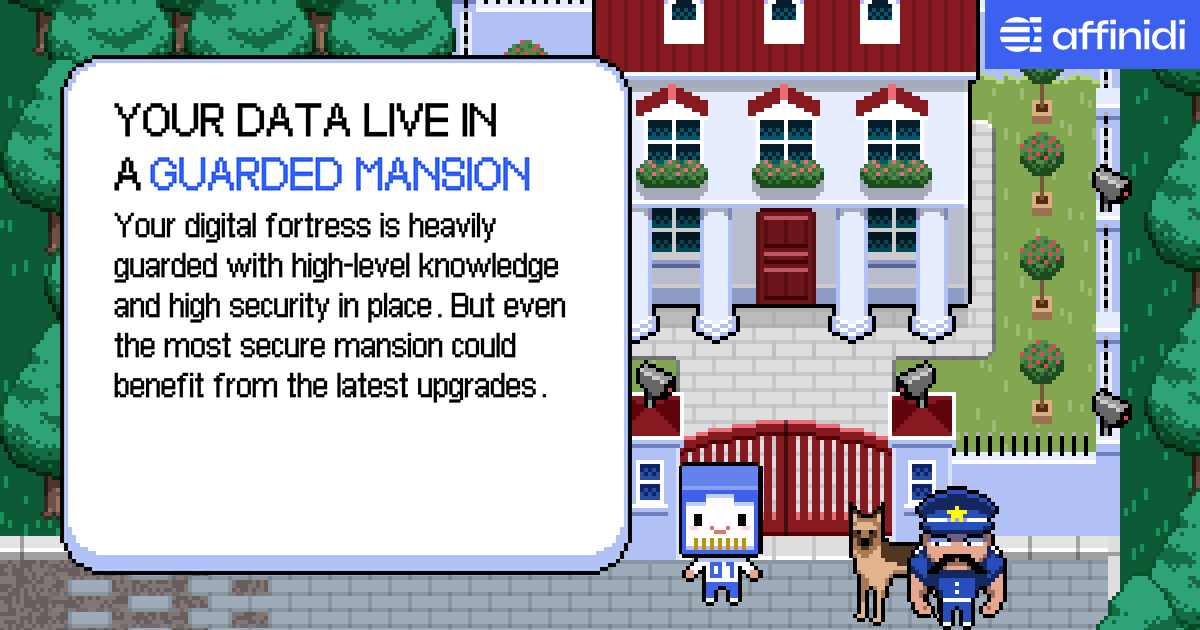
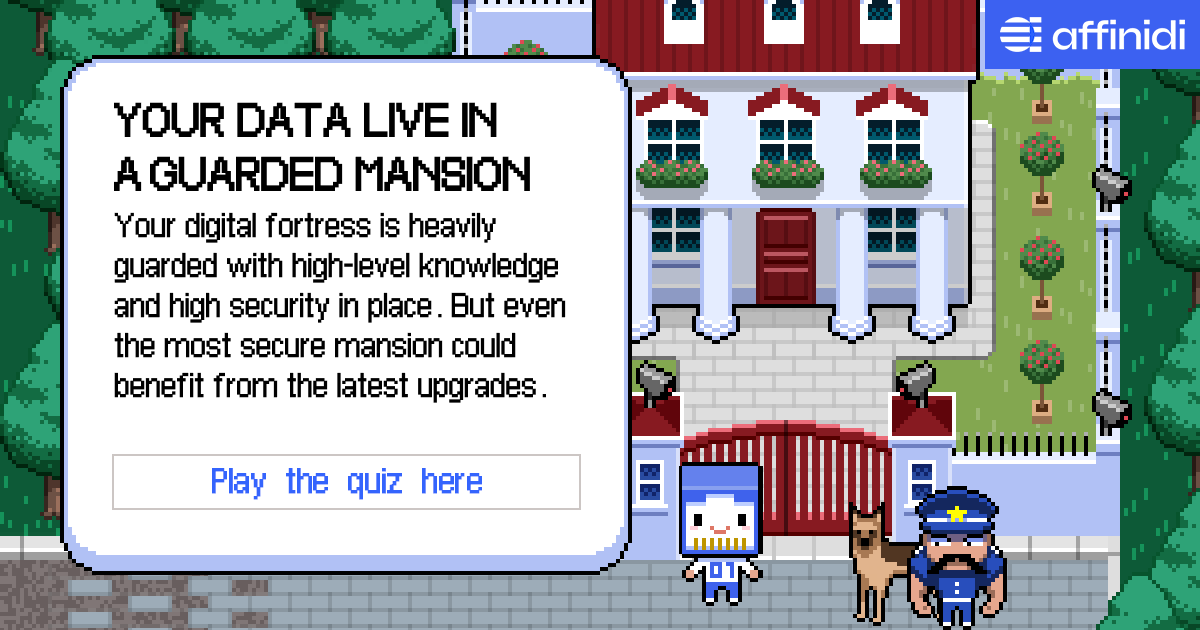
feat: og images updated

Changed region(s): [[0.0925, 0.6937, 0.4933, 0.8143], [0.0925, 0.2413, 0.4625, 0.3016], [0.0925, 0.1508, 0.4317, 0.2111]]

diff --git a/src/components/Scene/Scene-Result.vue b/src/components/Scene/Scene-Result.vue
@@ -1,12 +1,13 @@
 <script setup lang="ts">
-import { ref, reactive, onMounted, watch, computed } from 'vue'
+import { ref, reactive, onMounted, computed } from 'vue'
 import { External, onTick } from 'vue3-pixi'
-import { useFocus, useTimeoutFn } from '@vueuse/core'
-
-import { textureOptions } from '@/components/AppSettings.vue'
-import { useGameStore } from '@/stores/game'
+import { useFocus } from '@vueuse/core'
 import { storeToRefs } from 'pinia'
+
+import { useGameStore } from '@/stores/game'
 import { useDataStore } from '@/stores/data'
+import { textureOptions } from '@/components/AppSettings.vue'
+import Wolf from '@/components/Animation/Wolf.vue'
 
 const props = defineProps<{
   x: number
@@ -59,6 +60,8 @@ function onShare(type: 'facebook' | 'instagram' | 'x', event?: string) {
   const shareURL = 'https://affinidi-game-poc.onrender.com' + `/html/${props.place}-${characterSkin.value}.html`
   let finalShare = ''
 
+  // `https://twitter.com/intent/tweet?url=${pageUrl}&text=${text}&hashtags=${hashtags}
+
   switch (type) {
     case 'facebook':
       finalShare = 'https://www.facebook.com/sharer/sharer.php?u=' + encodeURIComponent(shareURL)
@@ -67,7 +70,7 @@ function onShare(type: 'facebook' | 'instagram' | 'x', event?: string) {
       finalShare = 'https://www.instagram.com/sharer/sharer.php?u=' + encodeURIComponent(shareURL)
       break
     case 'x':
-      finalShare = 'https://www.x.com/sharer/sharer.php?u=' + encodeURIComponent(shareURL)
+      finalShare = `https://www.twitter.com/intent/tweet?url=${encodeURIComponent(shareURL)}`
       break
   }
 
@@ -109,24 +112,39 @@ function onSubmit(value: string) {
   // DATA-COLLECT
   email.value = value
   dataStore.setEmail(value)
-  gameStore.playSFXSound('dialogBox')
+  gameStore.playSFXSound('buttonPress')
 
   setTimeout(() => {
+    gameStore.playSFXSound('dialogBox')
     secondScreen.value = true
+    wolf.alpha = 1
     emit('update')
   }, 300)
 }
+
 const frames = ['resultButton1', 'resultButton2']
 const inputRef = ref<any>()
 const { focused } = useFocus(inputRef)
+
+const wolf = reactive({ x: 280, y: 190, scale: 1, alpha: 0 })
 </script>
 
 <template>
   <Container v-if="!rotationStop" :x="modal.state.x" :y="modal.state.y" :scale="modal.state.scale">
+    <Wolf :x="wolf.x" :y="wolf.y" :scale="wolf.scale" :alpha="wolf.alpha" :flip="false" />
     <Sprite :texture="modal.image" :texture-options="textureOptions" :anchor="0.5" :scale="0.5" />
     <Container v-if="!secondScreen" :x="emailPlaceholder.x" :y="emailPlaceholder.y" :scale="emailPlaceholder.scale">
-      <Sprite ref="emailPlaceholderRef" :texture="focused || inputEmail?.length ? 'PlaceholderEmail2' : 'PlaceholderEmail1'" :texture-options="textureOptions" :anchor="0.5" :x="0" :y="0" :scale="1" />
-      <Sprite :texture="frames[Number(!!email?.length)]" :texture-options="textureOptions" :anchor="0.5" :x="450" :y="0" :scale="2.25" cursor="pointer" @pointerdown="onSubmit(inputEmail!)" />
+      <Sprite ref="emailPlaceholderRef" :texture="inputEmail?.length ? 'PlaceholderEmail2' : 'PlaceholderEmail1'" :texture-options="textureOptions" :anchor="0.5" :x="0" :y="0" :scale="1" />
+      <Sprite
+        v-if="!!inputEmail?.length"
+        :texture="frames[Number(!!email?.length)]"
+        :texture-options="textureOptions"
+        :anchor="0.5"
+        :x="450"
+        :y="0"
+        :scale="2.25"
+        cursor="pointer"
+        @pointerdown="onSubmit(inputEmail!)" />
       <External class="fixed z-10" :style="{ left: emailInputBox.x + 'px', top: emailInputBox.y + 'px' }">
         <input
           ref="inputRef"
@@ -153,9 +171,9 @@ const { focused } = useFocus(inputRef)
     <!-- <External>
       <div class="fixed bottom-0 left-16 z-50 flex w-fit items-center gap-8">
         <div class="flex flex-col gap-2">
-          <input v-model="emailPlaceholder.x" type="number" min="-10000" max="10000" step="10" />
-          <input v-model="emailPlaceholder.y" type="number" min="-10000" max="10000" step="10" />
-          <input v-model="emailPlaceholder.scale" type="number" min="0" max="10" step="0.01" />
+          <input v-model="wolf.x" type="number" min="-10000" max="10000" step="10" />
+          <input v-model="wolf.y" type="number" min="-10000" max="10000" step="10" />
+          <input v-model="wolf.scale" type="number" min="0" max="10" step="0.01" />
         </div>
       </div>
     </External> -->

diff --git a/public/html/strawhut-violate.html b/public/html/strawhut-violate.html
@@ -8,7 +8,7 @@
     <!-- Open Graph Meta Tags -->
     <meta property="og:title" content="Affindi Dataville">
     <meta property="og:description"
-        content="Welcome to Affindi Dataville, your hub for data-driven insights and solutions. Explore our innovative tools and services.">
+        content="Imagine living in a straw hut with me &#x1F6D6 Or a big mansion! Play now to see where you live in Dataville.">
     <meta property="og:image" content="/images/strawhut-violate.png">
     <meta property="og:url" content="https://affinidi-game-poc.onrender.com">
     <meta property="og:type" content="website">
@@ -16,7 +16,7 @@
     <meta name="twitter:card" content="summary_large_image">
     <meta name="twitter:title" content="Affindi Dataville">
     <meta name="twitter:description"
-        content="Welcome to Affindi Dataville, your hub for data-driven insights and solutions. Explore our innovative tools and services.">
+        content="Imagine living in a straw hut with me &#x1F6D6 Or a big mansion! Play now to see where you live in Dataville.">
     <meta name="twitter:image" content="/images/strawhut-violate.png">
     <meta name="twitter:url" content="https://affinidi-game-poc.onrender.com">
     <script>

diff --git a/public/html/strawhut-black.html b/public/html/strawhut-black.html
@@ -8,7 +8,7 @@
     <!-- Open Graph Meta Tags -->
     <meta property="og:title" content="Affindi Dataville">
     <meta property="og:description"
-        content="Welcome to Affindi Dataville, your hub for data-driven insights and solutions. Explore our innovative tools and services.">
+        content="Imagine living in a straw hut with me &#x1F6D6 Or a big mansion! Play now to see where you live in Dataville.">
     <meta property="og:image" content="/images/strawhut-black.png">
     <meta property="og:url" content="https://affinidi-game-poc.onrender.com">
     <meta property="og:type" content="website">
@@ -16,7 +16,7 @@
     <meta name="twitter:card" content="summary_large_image">
     <meta name="twitter:title" content="Affindi Dataville">
     <meta name="twitter:description"
-        content="Welcome to Affindi Dataville, your hub for data-driven insights and solutions. Explore our innovative tools and services.">
+        content="Imagine living in a straw hut with me &#x1F6D6 Or a big mansion! Play now to see where you live in Dataville.">
     <meta name="twitter:image" content="/images/strawhut-black.png">
     <meta name="twitter:url" content="https://affinidi-game-poc.onrender.com">
     <script>

diff --git a/public/html/strawhut-blue.html b/public/html/strawhut-blue.html
@@ -8,7 +8,7 @@
     <!-- Open Graph Meta Tags -->
     <meta property="og:title" content="Affindi Dataville">
     <meta property="og:description"
-        content="Welcome to Affindi Dataville, your hub for data-driven insights and solutions. Explore our innovative tools and services.">
+        content="Imagine living in a straw hut with me &#x1F6D6 Or a big mansion! Play now to see where you live in Dataville.">
     <meta property="og:image" content="/images/strawhut-blue.png">
     <meta property="og:url" content="https://affinidi-game-poc.onrender.com">
     <meta property="og:type" content="website">
@@ -16,7 +16,7 @@
     <meta name="twitter:card" content="summary_large_image">
     <meta name="twitter:title" content="Affindi Dataville">
     <meta name="twitter:description"
-        content="Welcome to Affindi Dataville, your hub for data-driven insights and solutions. Explore our innovative tools and services.">
+        content="Imagine living in a straw hut with me &#x1F6D6 Or a big mansion! Play now to see where you live in Dataville.">
     <meta name="twitter:image" content="/images/strawhut-blue.png">
     <meta name="twitter:url" content="https://affinidi-game-poc.onrender.com">
     <script>

diff --git a/public/html/strawhut-red.html b/public/html/strawhut-red.html
@@ -8,7 +8,7 @@
     <!-- Open Graph Meta Tags -->
     <meta property="og:title" content="Affindi Dataville">
     <meta property="og:description"
-        content="Welcome to Affindi Dataville, your hub for data-driven insights and solutions. Explore our innovative tools and services.">
+        content="Imagine living in a straw hut with me &#x1F6D6 Or a big mansion! Play now to see where you live in Dataville.">
     <meta property="og:image" content="/images/strawhut-red.png">
     <meta property="og:url" content="https://affinidi-game-poc.onrender.com">
     <meta property="og:type" content="website">
@@ -16,7 +16,7 @@
     <meta name="twitter:card" content="summary_large_image">
     <meta name="twitter:title" content="Affindi Dataville">
     <meta name="twitter:description"
-        content="Welcome to Affindi Dataville, your hub for data-driven insights and solutions. Explore our innovative tools and services.">
+        content="Imagine living in a straw hut with me &#x1F6D6 Or a big mansion! Play now to see where you live in Dataville.">
     <meta name="twitter:image" content="/images/strawhut-red.png">
     <meta name="twitter:url" content="https://affinidi-game-poc.onrender.com">
     <script>

diff --git a/public/html/loghouse-violate.html b/public/html/loghouse-violate.html
@@ -8,7 +8,7 @@
     <!-- Open Graph Meta Tags -->
     <meta property="og:title" content="Affindi Dataville">
     <meta property="og:description"
-        content="Welcome to Affindi Dataville, your hub for data-driven insights and solutions. Explore our innovative tools and services.">
+        content="Imagine living in a log house with me Or a big mansion! Play now to see where you live in Dataville.">
     <meta property="og:image" content="/images/loghouse-violate.png">
     <meta property="og:url" content="https://affinidi-game-poc.onrender.com">
     <meta property="og:type" content="website">
@@ -16,7 +16,7 @@
     <meta name="twitter:card" content="summary_large_image">
     <meta name="twitter:title" content="Affindi Dataville">
     <meta name="twitter:description"
-        content="Welcome to Affindi Dataville, your hub for data-driven insights and solutions. Explore our innovative tools and services.">
+        content="Imagine living in a log house with me Or a big mansion! Play now to see where you live in Dataville.">
     <meta name="twitter:image" content="/images/loghouse-violate.png">
     <meta name="twitter:url" content="https://affinidi-game-poc.onrender.com">
     <script>

diff --git a/public/html/townhouse-violate.html b/public/html/townhouse-violate.html
@@ -8,7 +8,7 @@
     <!-- Open Graph Meta Tags -->
     <meta property="og:title" content="Affindi Dataville">
     <meta property="og:description"
-        content="Welcome to Affindi Dataville, your hub for data-driven insights and solutions. Explore our innovative tools and services.">
+        content="Imagine living in a townhouse with me Or a log house! Play now to see where you live in Dataville.">
     <meta property="og:image" content="/images/townhouse-violate.png">
     <meta property="og:url" content="https://affinidi-game-poc.onrender.com">
     <meta property="og:type" content="website">
@@ -16,7 +16,7 @@
     <meta name="twitter:card" content="summary_large_image">
     <meta name="twitter:title" content="Affindi Dataville">
     <meta name="twitter:description"
-        content="Welcome to Affindi Dataville, your hub for data-driven insights and solutions. Explore our innovative tools and services.">
+        content="Imagine living in a townhouse with me Or a log house! Play now to see where you live in Dataville.">
     <meta name="twitter:image" content="/images/townhouse-violate.png">
     <meta name="twitter:url" content="https://affinidi-game-poc.onrender.com">
     <script>

diff --git a/public/html/loghouse-black.html b/public/html/loghouse-black.html
@@ -8,7 +8,7 @@
     <!-- Open Graph Meta Tags -->
     <meta property="og:title" content="Affindi Dataville">
     <meta property="og:description"
-        content="Welcome to Affindi Dataville, your hub for data-driven insights and solutions. Explore our innovative tools and services.">
+        content="Imagine living in a log house with me Or a big mansion! Play now to see where you live in Dataville.">
     <meta property="og:image" content="/images/loghouse-black.png">
     <meta property="og:url" content="https://affinidi-game-poc.onrender.com">
     <meta property="og:type" content="website">
@@ -16,7 +16,7 @@
     <meta name="twitter:card" content="summary_large_image">
     <meta name="twitter:title" content="Affindi Dataville">
     <meta name="twitter:description"
-        content="Welcome to Affindi Dataville, your hub for data-driven insights and solutions. Explore our innovative tools and services.">
+        content="Imagine living in a log house with me Or a big mansion! Play now to see where you live in Dataville.">
     <meta name="twitter:image" content="/images/loghouse-black.png">
     <meta name="twitter:url" content="https://affinidi-game-poc.onrender.com">
     <script>

diff --git a/public/html/loghouse-blue.html b/public/html/loghouse-blue.html
@@ -8,7 +8,7 @@
     <!-- Open Graph Meta Tags -->
     <meta property="og:title" content="Affindi Dataville">
     <meta property="og:description"
-        content="Welcome to Affindi Dataville, your hub for data-driven insights and solutions. Explore our innovative tools and services.">
+        content="Imagine living in a log house with me Or a big mansion! Play now to see where you live in Dataville.">
     <meta property="og:image" content="/images/loghouse-blue.png">
     <meta property="og:url" content="https://affinidi-game-poc.onrender.com">
     <meta property="og:type" content="website">
@@ -16,7 +16,7 @@
     <meta name="twitter:card" content="summary_large_image">
     <meta name="twitter:title" content="Affindi Dataville">
     <meta name="twitter:description"
-        content="Welcome to Affindi Dataville, your hub for data-driven insights and solutions. Explore our innovative tools and services.">
+        content="Imagine living in a log house with me Or a big mansion! Play now to see where you live in Dataville.">
     <meta name="twitter:image" content="/images/loghouse-blue.png">
     <meta name="twitter:url" content="https://affinidi-game-poc.onrender.com">
     <script>

diff --git a/public/html/townhouse-black.html b/public/html/townhouse-black.html
@@ -8,7 +8,7 @@
     <!-- Open Graph Meta Tags -->
     <meta property="og:title" content="Affindi Dataville">
     <meta property="og:description"
-        content="Welcome to Affindi Dataville, your hub for data-driven insights and solutions. Explore our innovative tools and services.">
+        content="Imagine living in a townhouse with me Or a log house! Play now to see where you live in Dataville.">
     <meta property="og:image" content="/images/townhouse-black.png">
     <meta property="og:url" content="https://affinidi-game-poc.onrender.com">
     <meta property="og:type" content="website">
@@ -16,7 +16,7 @@
     <meta name="twitter:card" content="summary_large_image">
     <meta name="twitter:title" content="Affindi Dataville">
     <meta name="twitter:description"
-        content="Welcome to Affindi Dataville, your hub for data-driven insights and solutions. Explore our innovative tools and services.">
+        content="Imagine living in a townhouse with me Or a log house! Play now to see where you live in Dataville.">
     <meta name="twitter:image" content="/images/townhouse-black.png">
     <meta name="twitter:url" content="https://affinidi-game-poc.onrender.com">
     <script>

diff --git a/public/html/loghouse-red.html b/public/html/loghouse-red.html
@@ -8,7 +8,7 @@
     <!-- Open Graph Meta Tags -->
     <meta property="og:title" content="Affindi Dataville">
     <meta property="og:description"
-        content="Welcome to Affindi Dataville, your hub for data-driven insights and solutions. Explore our innovative tools and services.">
+        content="Imagine living in a log house with me Or a big mansion! Play now to see where you live in Dataville.">
     <meta property="og:image" content="/images/loghouse-red.png">
     <meta property="og:url" content="https://affinidi-game-poc.onrender.com">
     <meta property="og:type" content="website">
@@ -16,7 +16,7 @@
     <meta name="twitter:card" content="summary_large_image">
     <meta name="twitter:title" content="Affindi Dataville">
     <meta name="twitter:description"
-        content="Welcome to Affindi Dataville, your hub for data-driven insights and solutions. Explore our innovative tools and services.">
+        content="Imagine living in a log house with me Or a big mansion! Play now to see where you live in Dataville.">
     <meta name="twitter:image" content="/images/loghouse-red.png">
     <meta name="twitter:url" content="https://affinidi-game-poc.onrender.com">
     <script>

diff --git a/public/html/townhouse-blue.html b/public/html/townhouse-blue.html
@@ -8,7 +8,7 @@
     <!-- Open Graph Meta Tags -->
     <meta property="og:title" content="Affindi Dataville">
     <meta property="og:description"
-        content="Welcome to Affindi Dataville, your hub for data-driven insights and solutions. Explore our innovative tools and services.">
+        content="Imagine living in a townhouse with me Or a log house! Play now to see where you live in Dataville.">
     <meta property="og:image" content="/images/townhouse-blue.png">
     <meta property="og:url" content="https://affinidi-game-poc.onrender.com">
     <meta property="og:type" content="website">
@@ -16,7 +16,7 @@
     <meta name="twitter:card" content="summary_large_image">
     <meta name="twitter:title" content="Affindi Dataville">
     <meta name="twitter:description"
-        content="Welcome to Affindi Dataville, your hub for data-driven insights and solutions. Explore our innovative tools and services.">
+        content="Imagine living in a townhouse with me Or a log house! Play now to see where you live in Dataville.">
     <meta name="twitter:image" content="/images/townhouse-blue.png">
     <meta name="twitter:url" content="https://affinidi-game-poc.onrender.com">
     <script>
